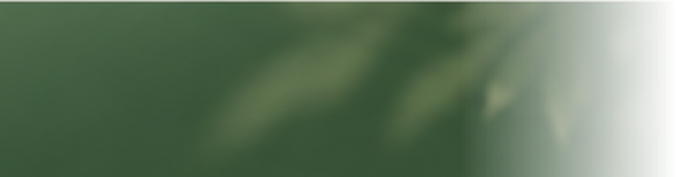
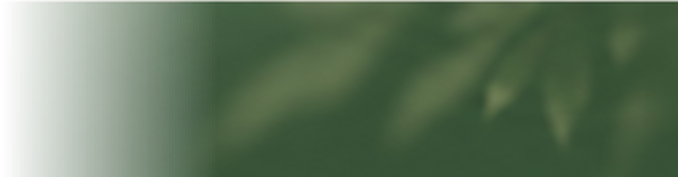
fix(home): scale landing proportions to the reference mockup

diff --git a/frontend/src/styles/pages.css b/frontend/src/styles/pages.css
@@ -10,118 +10,142 @@
 @media (max-width: 600px) {
   .landing__nav { flex-wrap: wrap; gap: 12px; }
   .landing__nav-actions { align-items: center; flex-wrap: wrap; }
+  .landing .container { width: calc(100% - 32px); }
   .landing::before { display: none; }
-  .hero { padding-top: 28px; }
-  .hero__art { height: 400px; }
-  .hero__card { width: 200px; }
-  .hero__card--two { width: 190px; top: 118px; right: 10%; }
-  .hero__card figcaption strong { font-size: 0.92rem; }
-  .hero__rings { width: 300px; height: 300px; }
-  .hero__chip--place { top: 12px; right: 8%; }
-  .hero__interests { top: 190px; right: 0; gap: 9px; }
-  .hero__interests li { padding: 7px 11px; font-size: 0.72rem; }
-  .hero__trust li { padding: 0 12px; }
-  .landing__cta { flex-direction: column; align-items: flex-start; gap: 20px; padding: 28px; }
+  .hero { padding-top: 20px; gap: 24px; }
+  .hero__copy h1 { font-size: 2.2rem; }
+  .hero__copy h1 br { display: none; }
+  .hero__art { height: 380px; }
+  .hero__card--one { width: 46%; left: 2%; }
+  .hero__card--two { width: 42%; top: 30%; right: 10%; }
+  .hero__rings { width: 70%; }
+  .hero__chip--place { right: 8%; }
+  .hero__interests { top: 45%; gap: 8px; }
+  .hero__interests li { padding: 6px 9px; font-size: 0.7rem; }
+  .hero__trust li { padding: 0 10px; font-size: 0.75rem; }
+  .landing__cta { flex-direction: column; align-items: flex-start; gap: 18px; padding: 24px; }
 }
 .landing { position: relative; }
+.landing .container { width: min(1600px, 72vw, 100% - 48px); }
 .landing::before {
-  content: ""; position: absolute; left: 0; top: 280px; width: 280px; height: 230px;
+  content: ""; position: absolute; left: 0; top: 13vw; width: 13vw; height: 10.6vw;
   background: url('/images/home-leaves-left.png') left center / contain no-repeat;
   pointer-events: none;
 }
+.landing .eyebrow { font-size: clamp(0.65rem, 0.72vw, 0.85rem); gap: 0.6vw; }
+.landing .eyebrow::before { width: 1.3vw; }
 .hero {
   display: grid;
   grid-template-columns: 1fr 1fr;
   align-items: center;
-  gap: 48px;
-  padding-top: 48px;
-  padding-bottom: 90px;
+  gap: 3.1vw;
+  padding-top: 3vw;
+  padding-bottom: 2.6vw;
 }
-.hero__copy h1 { margin: 18px 0 22px; font-size: clamp(2.4rem, 3.6vw, 3.4rem); line-height: 1.12; }
+.hero__copy h1 {
+  margin: 1.1vw 0 1.4vw; font-size: clamp(2.4rem, 2.96vw, 4.4rem);
+  line-height: 1.18; letter-spacing: -0.015em;
+}
 .hero__copy h1 em { color: var(--matcha); font-style: italic; }
-.hero__copy .lead { max-width: 46ch; }
-.hero__actions { display: flex; flex-wrap: wrap; gap: 12px; margin-top: 30px; }
-.hero__how { gap: 9px; }
+.hero__copy .lead { max-width: 52ch; font-size: clamp(0.95rem, 1.03vw, 1.5rem); line-height: 1.65; }
+.hero__actions { display: flex; flex-wrap: wrap; gap: 0.8vw; margin-top: 2.1vw; }
+.hero__actions .btn {
+  height: clamp(40px, 2.75vw, 56px); padding: 0 clamp(16px, 1.45vw, 30px);
+  border-radius: 10px; font-size: clamp(0.85rem, 0.95vw, 1.15rem);
+}
+.hero__how { gap: 0.55vw; }
 .hero__trust {
-  display: flex; flex-wrap: wrap; align-items: center; margin: 34px 0 0; padding: 0; list-style: none;
+  display: flex; flex-wrap: wrap; align-items: center; margin: 2.2vw 0 0; padding: 0; list-style: none;
 }
 .hero__trust li {
-  display: inline-flex; align-items: center; gap: 8px; padding: 0 18px;
+  display: inline-flex; align-items: center; gap: 0.5vw; padding: 0 1.15vw;
   border-left: 1px solid var(--line-strong); color: var(--ink-soft);
-  font-size: var(--text-sm); font-weight: 600;
+  font-size: clamp(0.72rem, 0.83vw, 1rem); font-weight: 600;
 }
 .hero__trust li:first-child { padding-left: 0; border-left: 0; }
-.hero__trust svg { color: var(--matcha-dark); }
-.hero__art { position: relative; height: 420px; }
+.hero__trust svg { width: clamp(13px, 1.05vw, 20px); height: clamp(13px, 1.05vw, 20px); color: var(--matcha-dark); }
+.hero__art { position: relative; height: clamp(320px, 25.5vw, 620px); }
 .hero__rings {
-  position: absolute; top: 20px; left: 38%; width: 340px; height: 340px;
-  transform: translateX(-50%); border-radius: 50%;
+  position: absolute; top: 50%; left: 38%; width: 64%; aspect-ratio: 1;
+  transform: translate(-50%, -50%); border-radius: 50%;
   background: radial-gradient(circle, #cfdcc4 0 18%, #d8e4cd 18% 36%, #e0ead7 36% 54%, #e8f0e1 54% 72%, #eef4e8 72% 100%);
   opacity: 0.85;
 }
-.hero__pin { position: absolute; top: 92px; left: 47%; z-index: 1; color: var(--matcha-dark); }
+.hero__pin { position: absolute; top: 24%; left: 47%; z-index: 1; color: var(--matcha-dark); }
+.hero__pin svg { width: clamp(20px, 1.95vw, 40px); height: clamp(20px, 1.95vw, 40px); }
 .hero__card {
-  position: absolute; z-index: 2; width: 225px; margin: 0; padding: 10px 10px 12px;
-  border: 1px solid #efe8dd; border-radius: 14px; background: var(--surface);
-  box-shadow: 0 18px 40px rgba(62, 51, 31, 0.16);
+  position: absolute; z-index: 2; width: 42%; margin: 0; padding: 0.65vw;
+  border: 1px solid #efe8dd; border-radius: 0.9vw; background: var(--surface);
+  box-shadow: 0 1.2vw 2.6vw rgba(62, 51, 31, 0.16);
 }
-.hero__card img { display: block; width: 100%; aspect-ratio: 1; object-fit: cover; border-radius: 8px; }
+.hero__card img { display: block; width: 100%; aspect-ratio: 1; object-fit: cover; border-radius: 0.5vw; }
 .hero__card figcaption {
-  display: flex; align-items: center; justify-content: space-between; gap: 8px; padding: 10px 4px 2px;
+  display: flex; align-items: center; justify-content: space-between; gap: 0.5vw;
+  padding: 0.65vw 0.25vw 0.15vw;
 }
-.hero__card figcaption strong { font-family: var(--font-serif); font-size: 1.05rem; }
-.hero__card .fame-badge { padding: 4px 9px; font-size: var(--text-xs); }
-.hero__card--one { top: 34px; left: 4%; transform: rotate(-4deg); }
-.hero__card--two { top: 128px; right: 14%; width: 205px; transform: rotate(5deg); }
+.hero__card figcaption strong { font-family: var(--font-serif); font-size: clamp(0.95rem, 1.1vw, 1.5rem); }
+.hero__card .fame-badge { gap: 0.35vw; padding: 0.3vw 0.6vw; font-size: clamp(0.65rem, 0.78vw, 0.95rem); }
+.hero__card .fame-badge svg { width: clamp(10px, 0.8vw, 16px); height: clamp(10px, 0.8vw, 16px); }
+.hero__card--one { top: 9%; left: 4%; transform: rotate(-4deg); }
+.hero__card--two { top: 30%; right: 14%; width: 38%; transform: rotate(5deg); }
 .hero__chip {
-  position: absolute; z-index: 3; display: inline-flex; align-items: center; gap: 7px;
-  padding: 9px 13px; border-radius: 12px; background: var(--surface); box-shadow: var(--shadow-md);
-  font-size: 0.78rem; font-weight: 700; color: var(--ink); white-space: nowrap;
+  position: absolute; z-index: 3; display: inline-flex; align-items: center; gap: 0.45vw;
+  padding: 0.6vw 0.85vw; border-radius: 0.8vw; background: var(--surface); box-shadow: var(--shadow-md);
+  font-size: clamp(0.68rem, 0.8vw, 0.95rem); font-weight: 700; color: var(--ink); white-space: nowrap;
 }
-.hero__chip svg { color: var(--matcha-dark); }
-.hero__chip--match { top: 8px; left: 2%; transform: rotate(-4deg); color: var(--matcha-dark); }
-.hero__chip--place { top: 30px; right: 12%; transform: rotate(2deg); }
+.hero__chip svg { width: clamp(12px, 1.05vw, 20px); height: clamp(12px, 1.05vw, 20px); color: var(--matcha-dark); }
+.hero__chip--match { top: 9%; left: 2%; transform: rotate(-4deg); color: var(--matcha-dark); }
+.hero__chip--place { top: 9%; right: 12%; transform: rotate(2deg); }
 .hero__chip--place > span { display: flex; flex-direction: column; gap: 1px; }
-.hero__chip--place strong { font-size: 0.8rem; }
-.hero__chip--place small { color: var(--muted); font-size: 0.68rem; font-weight: 600; }
+.hero__chip--place strong { font-size: clamp(0.7rem, 0.82vw, 1rem); }
+.hero__chip--place small { color: var(--muted); font-size: clamp(0.6rem, 0.7vw, 0.85rem); font-weight: 600; }
 .hero__interests {
-  position: absolute; top: 176px; right: 0; z-index: 3; display: flex; flex-direction: column;
-  align-items: flex-start; gap: 12px; margin: 0; padding: 0; list-style: none;
+  position: absolute; top: 47%; right: 0; z-index: 3; display: flex; flex-direction: column;
+  align-items: flex-start; gap: 0.8vw; margin: 0; padding: 0; list-style: none;
 }
 .hero__interests li {
-  display: inline-flex; align-items: center; gap: 7px; padding: 9px 14px; border-radius: 12px;
-  background: var(--surface); box-shadow: var(--shadow-md); font-size: 0.78rem; font-weight: 700;
-  transform: rotate(3deg);
+  display: inline-flex; align-items: center; gap: 0.45vw; padding: 0.6vw 0.9vw; border-radius: 0.8vw;
+  background: var(--surface); box-shadow: var(--shadow-md);
+  font-size: clamp(0.68rem, 0.8vw, 0.95rem); font-weight: 700; transform: rotate(3deg);
 }
-.hero__interests li:nth-child(2) { margin-left: 6px; transform: rotate(2deg); }
-.hero__interests li:nth-child(3) { margin-left: 10px; transform: rotate(4deg); }
-.hero__interests svg { color: var(--matcha-dark); }
-.landing__features { padding: 30px 0 70px; }
-.landing__section-head { max-width: 780px; margin-bottom: 32px; }
-.landing__section-head h2 { margin-top: 12px; font-size: clamp(1.7rem, 2.6vw, 2.3rem); }
-.feature-grid { display: grid; grid-template-columns: repeat(3, 1fr); gap: 22px; }
+.hero__interests li:nth-child(2) { margin-left: 0.4vw; transform: rotate(2deg); }
+.hero__interests li:nth-child(3) { margin-left: 0.65vw; transform: rotate(4deg); }
+.hero__interests svg { width: clamp(12px, 1vw, 19px); height: clamp(12px, 1vw, 19px); color: var(--matcha-dark); }
+.landing__features { padding: 1.2vw 0 2vw; }
+.landing__section-head { max-width: 60vw; margin-bottom: 1.75vw; }
+.landing__section-head h2 { margin-top: 0.8vw; font-size: clamp(1.6rem, 2.08vw, 3rem); }
+.feature-grid { display: grid; grid-template-columns: repeat(3, 1fr); gap: 1.3vw; }
 .feature-card {
-  display: grid; grid-template-columns: auto 1fr; gap: 0 16px; align-items: start;
-  padding: 26px 26px 24px; border: 1px solid var(--line); border-radius: 14px;
+  display: grid; grid-template-columns: auto 1fr; gap: 0 1.05vw; align-items: start;
+  padding: 1.55vw; border: 1px solid var(--line); border-radius: 0.9vw;
   background: rgba(255, 253, 250, 0.9); box-shadow: var(--shadow-xs);
 }
 .feature-card__icon {
-  display: grid; place-items: center; width: 46px; height: 46px;
-  border-radius: 12px; background: var(--matcha-light); color: var(--matcha-dark);
+  display: grid; place-items: center; width: 2.95vw; height: 2.95vw;
+  border-radius: 0.8vw; background: var(--matcha-light); color: var(--matcha-dark);
 }
-.feature-card h3 { align-self: center; margin: 0; font-size: 1.12rem; }
-.feature-card p { grid-column: 2; margin: 8px 0 0; color: var(--muted); font-size: 0.82rem; line-height: 1.65; }
+.feature-card__icon svg { width: 1.3vw; height: 1.3vw; }
+.feature-card h3 { align-self: center; margin: 0; font-size: clamp(1rem, 1.02vw, 1.45rem); }
+.feature-card p {
+  grid-column: 2; margin: 0.55vw 0 0; color: var(--muted);
+  font-size: clamp(0.75rem, 0.83vw, 1.05rem); line-height: 1.6;
+}
 .landing__cta {
   position: relative; overflow: hidden;
-  display: flex; align-items: center; justify-content: space-between; gap: 30px;
-  padding: 34px 40px; border-radius: var(--radius-lg); background: var(--matcha-dark); color: #fff;
+  display: flex; align-items: center; justify-content: space-between; gap: 2vw;
+  padding: 2.2vw 2.6vw; border-radius: 1vw; background: var(--matcha-dark); color: #fff;
 }
-.landing__cta h2 { margin: 0 0 6px; color: #fff; font-size: 1.65rem; }
-.landing__cta .lead { margin: 0; color: rgba(255, 255, 255, 0.8); font-size: 0.95rem; }
-.landing__cta-btn { flex: none; gap: 8px; background: #fff; color: var(--matcha-dark); box-shadow: none; }
+.landing__cta h2 { margin: 0 0 0.4vw; color: #fff; font-size: clamp(1.3rem, 1.62vw, 2.4rem); }
+.landing__cta .lead { margin: 0; color: rgba(255, 255, 255, 0.8); font-size: clamp(0.85rem, 0.95vw, 1.3rem); }
+.landing__cta-btn {
+  flex: none; gap: 0.5vw; height: clamp(36px, 2.2vw, 48px); padding: 0 1.3vw;
+  border-radius: 0.65vw; background: #fff; color: var(--matcha-dark);
+  font-size: clamp(0.8rem, 0.92vw, 1.1rem); box-shadow: none;
+}
 .landing__footer {
-  display: flex; justify-content: space-between; gap: 16px; padding: 28px 0 36px;
-  border-top: 1px solid var(--line); margin-top: auto; color: var(--muted); font-size: var(--text-sm);
+  display: flex; justify-content: space-between; gap: 16px; padding: 2.4vw 0 2.6vw;
+  border-top: 1px solid var(--line); margin-top: auto; color: var(--muted);
+  font-size: clamp(0.72rem, 0.83vw, 1rem);
 }
 
 /* ---------- Auth ---------- */
@@ -564,9 +588,37 @@
 .not-found .btn { margin-top: 12px; }
 
 @media (max-width: 1000px) {
-  .hero { grid-template-columns: 1fr; gap: 28px; padding-bottom: 56px; }
+  .landing .container { width: min(100% - 40px, 760px); }
+  .landing::before { top: 120px; width: 150px; height: 122px; }
+  .landing .eyebrow { font-size: 0.72rem; }
+  .hero { grid-template-columns: 1fr; gap: 32px; padding-top: 28px; padding-bottom: 40px; }
+  .hero__copy h1 { margin: 14px 0 16px; font-size: 2.6rem; }
+  .hero__copy .lead { font-size: 1rem; }
+  .hero__actions { margin-top: 24px; gap: 10px; }
+  .hero__actions .btn { height: 46px; padding: 0 20px; font-size: 0.9rem; }
+  .hero__trust { margin-top: 24px; }
+  .hero__trust li { padding: 0 12px; font-size: 0.8rem; }
   .hero__art { height: 440px; max-width: 560px; width: 100%; margin: 0 auto; }
-  .feature-grid { grid-template-columns: 1fr; }
+  .hero__card { padding: 8px; border-radius: 12px; }
+  .hero__card img { border-radius: 6px; }
+  .hero__card figcaption { padding: 8px 3px 2px; }
+  .hero__card figcaption strong { font-size: 1rem; }
+  .hero__chip, .hero__interests li { padding: 7px 11px; border-radius: 10px; font-size: 0.75rem; }
+  .hero__interests { gap: 10px; }
+  .landing__features { padding: 20px 0 36px; }
+  .landing__section-head { max-width: none; margin-bottom: 24px; }
+  .landing__section-head h2 { margin-top: 10px; font-size: 1.9rem; }
+  .feature-card { padding: 22px; gap: 0 14px; border-radius: 12px; }
+  .feature-card__icon { width: 44px; height: 44px; border-radius: 10px; }
+  .feature-card__icon svg { width: 20px; height: 20px; }
+  .feature-card h3 { font-size: 1.1rem; }
+  .feature-card p { margin-top: 8px; font-size: 0.85rem; }
+  .landing__cta { padding: 26px 28px; border-radius: 14px; }
+  .landing__cta h2 { font-size: 1.5rem; }
+  .landing__cta .lead { font-size: 0.95rem; }
+  .landing__cta-btn { height: 44px; padding: 0 18px; border-radius: 9px; font-size: 0.9rem; }
+  .landing__footer { padding: 22px 0 26px; font-size: 0.8rem; }
+  .feature-grid { grid-template-columns: 1fr; gap: 16px; }
   .auth-layout { grid-template-columns: 1fr; --morph-w: 172px; --morph-h: 52px; --card-radius: 24px; }
   .auth-main { padding: 32px 16px; }
   .auth-card { padding: 26px; border-radius: var(--card-radius); }

diff --git a/frontend/tests/landing-design.test.tsx b/frontend/tests/landing-design.test.tsx
@@ -27,7 +27,7 @@ test("landing keeps the existing header and footer", () => {
 test("hero matches the botanical reference copy and trust row", () => {
   auth.user = null;
   renderLanding();
-  expect(screen.getByRole("heading", { level: 1, name: /Meet people who feel like your kind of people/ })).toBeTruthy();
+  expect(screen.getByRole("heading", { level: 1, name: /Meet people who feel\s*like your kind of people/ })).toBeTruthy();
   expect(screen.getByText("Dating, with more intention")).toBeTruthy();
   for (const label of ["People nearby", "Shared interests", "Privacy by design"]) {
     expect(screen.getByText(label)).toBeTruthy();

diff --git a/frontend/src/pages/LandingPage.tsx b/frontend/src/pages/LandingPage.tsx
@@ -33,7 +33,7 @@ export function LandingPage() {
         <section className="hero container">
           <div className="hero__copy">
             <p className="eyebrow">Dating, with more intention</p>
-            <h1>Meet people who feel like <em>your</em> kind of people.</h1>
+            <h1>Meet people who feel<br />like <em>your</em> kind of people.</h1>
             <p className="lead">
               Thoughtful matching, real common ground, and people nearby who are also
               looking for a genuine connection.
